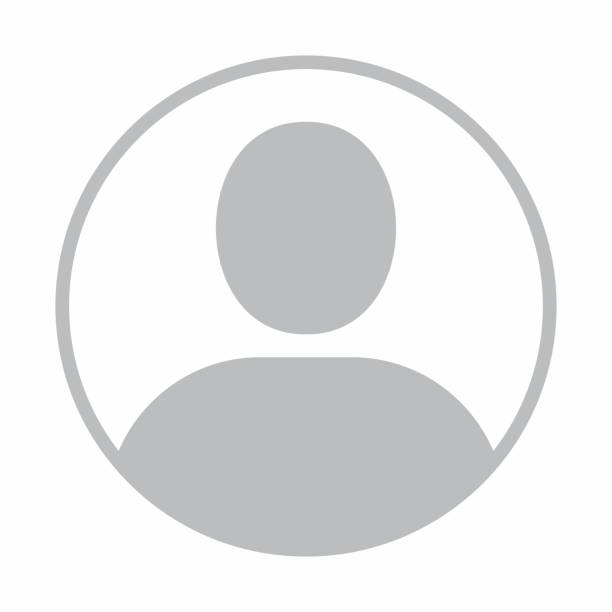
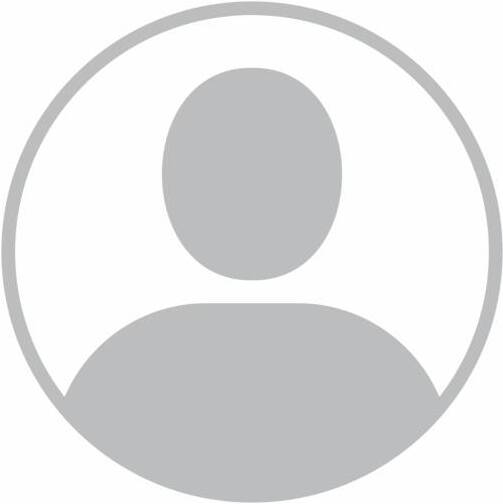
FriendsBlock updated

Changed region(s): [[0.0, 0.0, 1.0, 1.0], [0.2386, 0.625, 0.2684, 0.6548]]

diff --git a/src/components/FriendsBlock/FriendsBlock.tsx b/src/components/FriendsBlock/FriendsBlock.tsx
@@ -1,16 +1,29 @@
-import React, {FC} from "react"
+import React, {FC, useEffect} from "react"
 import style from "./FriendsBlock.module.css"
 import commonStyles from "./../../App.module.css"
+import {useDispatch, useSelector} from "react-redux"
+import {requestFriends} from "../../redux/reducers/friendsSlice"
+import {AnyAction} from "redux"
+import {getFriends} from "../../redux/selectors/friendsSelectors"
+import userAvatar from "../../images/userAvatar.jpeg"
+import {NavLink} from "react-router-dom"
 
 const FriendsBlock: FC = () => {
-//todo: запросить юзеров с фильтром друзья
-    // const dispatch = useDispatch()
-    // const friends = dispatch(requestUsers(null, null, true) as unknown as AnyAction)
 
-    return <div className={`${style.friends} ${commonStyles.whiteBlock}`}>
-        <h3 className={style.title}>Friends</h3>
-        <div className={style.friend}>
+    const friends = useSelector(getFriends)
+    const dispatch = useDispatch()
+    useEffect(() => {
+        dispatch(requestFriends() as unknown as AnyAction)
+    }, [])
 
+    return <div className={`${style.friendsBlock} ${commonStyles.whiteBlock}`}>
+        <h3>Friends</h3>
+        <div className={style.friends}>
+            {friends.map(f => <NavLink to={"/profile/" + f.id} key={f.id} className={style.friend}>
+                <img className={style.avatar} src={f.photos.small != null ? f.photos.small : userAvatar}/>
+                <h4>{f.name}</h4>
+            </NavLink>)
+            }
         </div>
     </div>
 }

diff --git a/src/redux/reducers/appSlice.ts b/src/redux/reducers/appSlice.ts
@@ -4,7 +4,6 @@ import {createSlice} from "@reduxjs/toolkit"
 type initialStateType = {
     initialized: boolean
 }
-// type actionType = baseActionType<typeof actions>
 
 const appSlice = createSlice({
     name: "app",
@@ -17,26 +16,6 @@ const appSlice = createSlice({
         }
     }
 })
-
-// let initialState = {
-//     initialized: false
-// }
-
-// const appReducer = (state = initialState, action: actionType): initialStateType => {
-//     switch (action.type) {
-//         case "APP_INITIALIZATION_SUCCESS":
-//             return {
-//                 ...state,
-//                 initialized: true
-//             }
-//         default:
-//             return state
-//     }
-// }
-//
-// const actions = {
-//     initializationSuccess: () => ({type: "APP_INITIALIZATION_SUCCESS"} as const)
-// }
 
 export const initializeApp = () => (dispatch: any) => {
     const promise = dispatch(getAuthUserData()) // когда придет подтверждение авторизации и данные

diff --git a/src/redux/reducers/friendsSlice.ts b/src/redux/reducers/friendsSlice.ts
@@ -1,0 +1,27 @@
+import {createSlice} from "@reduxjs/toolkit"
+import {usersType} from "../../types/types"
+import {friendsAPI} from "../../api/friendsAPI"
+import {baseActionType, baseThunkType} from "../store";
+
+type actionsType = baseActionType<typeof friendsSlice.actions>
+type thunkType = baseThunkType<actionsType>
+
+const friendsSlice = createSlice({
+    name: "friends",
+    initialState: {
+        friends: [] as Array<usersType>
+    },
+    reducers: {
+        setFriends(state, action){
+            state.friends = action.payload.items
+        }
+    }
+})
+
+export const requestFriends = (): thunkType =>
+    async (dispatch) => {
+        const data = await friendsAPI.getFriendsAPI()
+        dispatch(friendsSlice.actions.setFriends(data))
+    }
+
+export default friendsSlice.reducer

diff --git a/src/redux/store.ts b/src/redux/store.ts
@@ -8,6 +8,7 @@ import authReducer from "./reducers/authReducer"
 import chatReducer from "./reducers/chatReducer"
 import dialogsSlice from "./reducers/dialogsSlice"
 import appSlice from "./reducers/appSlice"
+import friendsSlice from "./reducers/friendsSlice";
 
 // для useAppDispatch и useAppSelectors
 // export type AppStore = ReturnType<typeof setupStore>
@@ -25,6 +26,7 @@ const rootReducer = combineReducers({
     dialogs: dialogsSlice,
     chat: chatReducer,
     auth: authReducer,
+    friends: friendsSlice
 })
 
 export const store = configureStore({

diff --git a/src/components/Profile/ProfileInfo/ProfileInfo.tsx b/src/components/Profile/ProfileInfo/ProfileInfo.tsx
@@ -83,7 +83,7 @@ const ProfileInfo: FC<{ isOwner: boolean }> = ({isOwner}) => {
 
                     <div className={style.contacts}>
                         {Object
-                            .keys(profile.contacts).map(key => <Contact name={key} link={profile.contacts[key as keyof contactsType]}/>)}
+                            .keys(profile.contacts).map(key => <Contact key={key} name={key} link={profile.contacts[key as keyof contactsType]}/>)}
                     </div>
 
                 </div>}

diff --git a/src/components/FriendsBlock/FriendsBlock.module.css b/src/components/FriendsBlock/FriendsBlock.module.css
@@ -1,9 +1,15 @@
-h3 {
+.friendsBlock {
+    grid-area: friendsBlock;
+    padding: 25px;
+}
+
+.friendsBlock h3 {
     color: darkgrey;
 }
 
 .friends {
-    grid-area: friendsBlock;
+    display: grid;
+    gap: 16px;
 }
 
 .friend {
@@ -13,7 +19,7 @@ h3 {
     align-items: center;
 }
 
-.avatar {
-    max-width: 40px;
+.friend img {
+    width: 40px;
     border-radius: 40px;
 }

diff --git a/src/api/friendsAPI.ts b/src/api/friendsAPI.ts
@@ -1,0 +1,11 @@
+import {usersType} from "../types/types"
+import {instance} from "./api"
+
+type getUserResponseType = Array<usersType>
+
+export const friendsAPI = {
+    getFriendsAPI() {
+        return instance.get<getUserResponseType>(`users?friend=${true}`)
+            .then(response => response.data)
+    }
+}

diff --git a/src/types/types.ts b/src/types/types.ts
@@ -29,9 +29,9 @@ export type contactsType = {
 export type usersType = {
     id: number
     name: string
-    status: string | null
+    status?: string | null
     photos: photosType
-    followed: boolean
+    followed?: boolean
 }
 export type dialogType = {
     id: number

diff --git a/src/redux/selectors/friendsSelectors.ts b/src/redux/selectors/friendsSelectors.ts
@@ -1,0 +1,5 @@
+import {stateType} from "../store"
+
+export const getFriends = (state: stateType) => {
+    return state.friends.friends
+}
